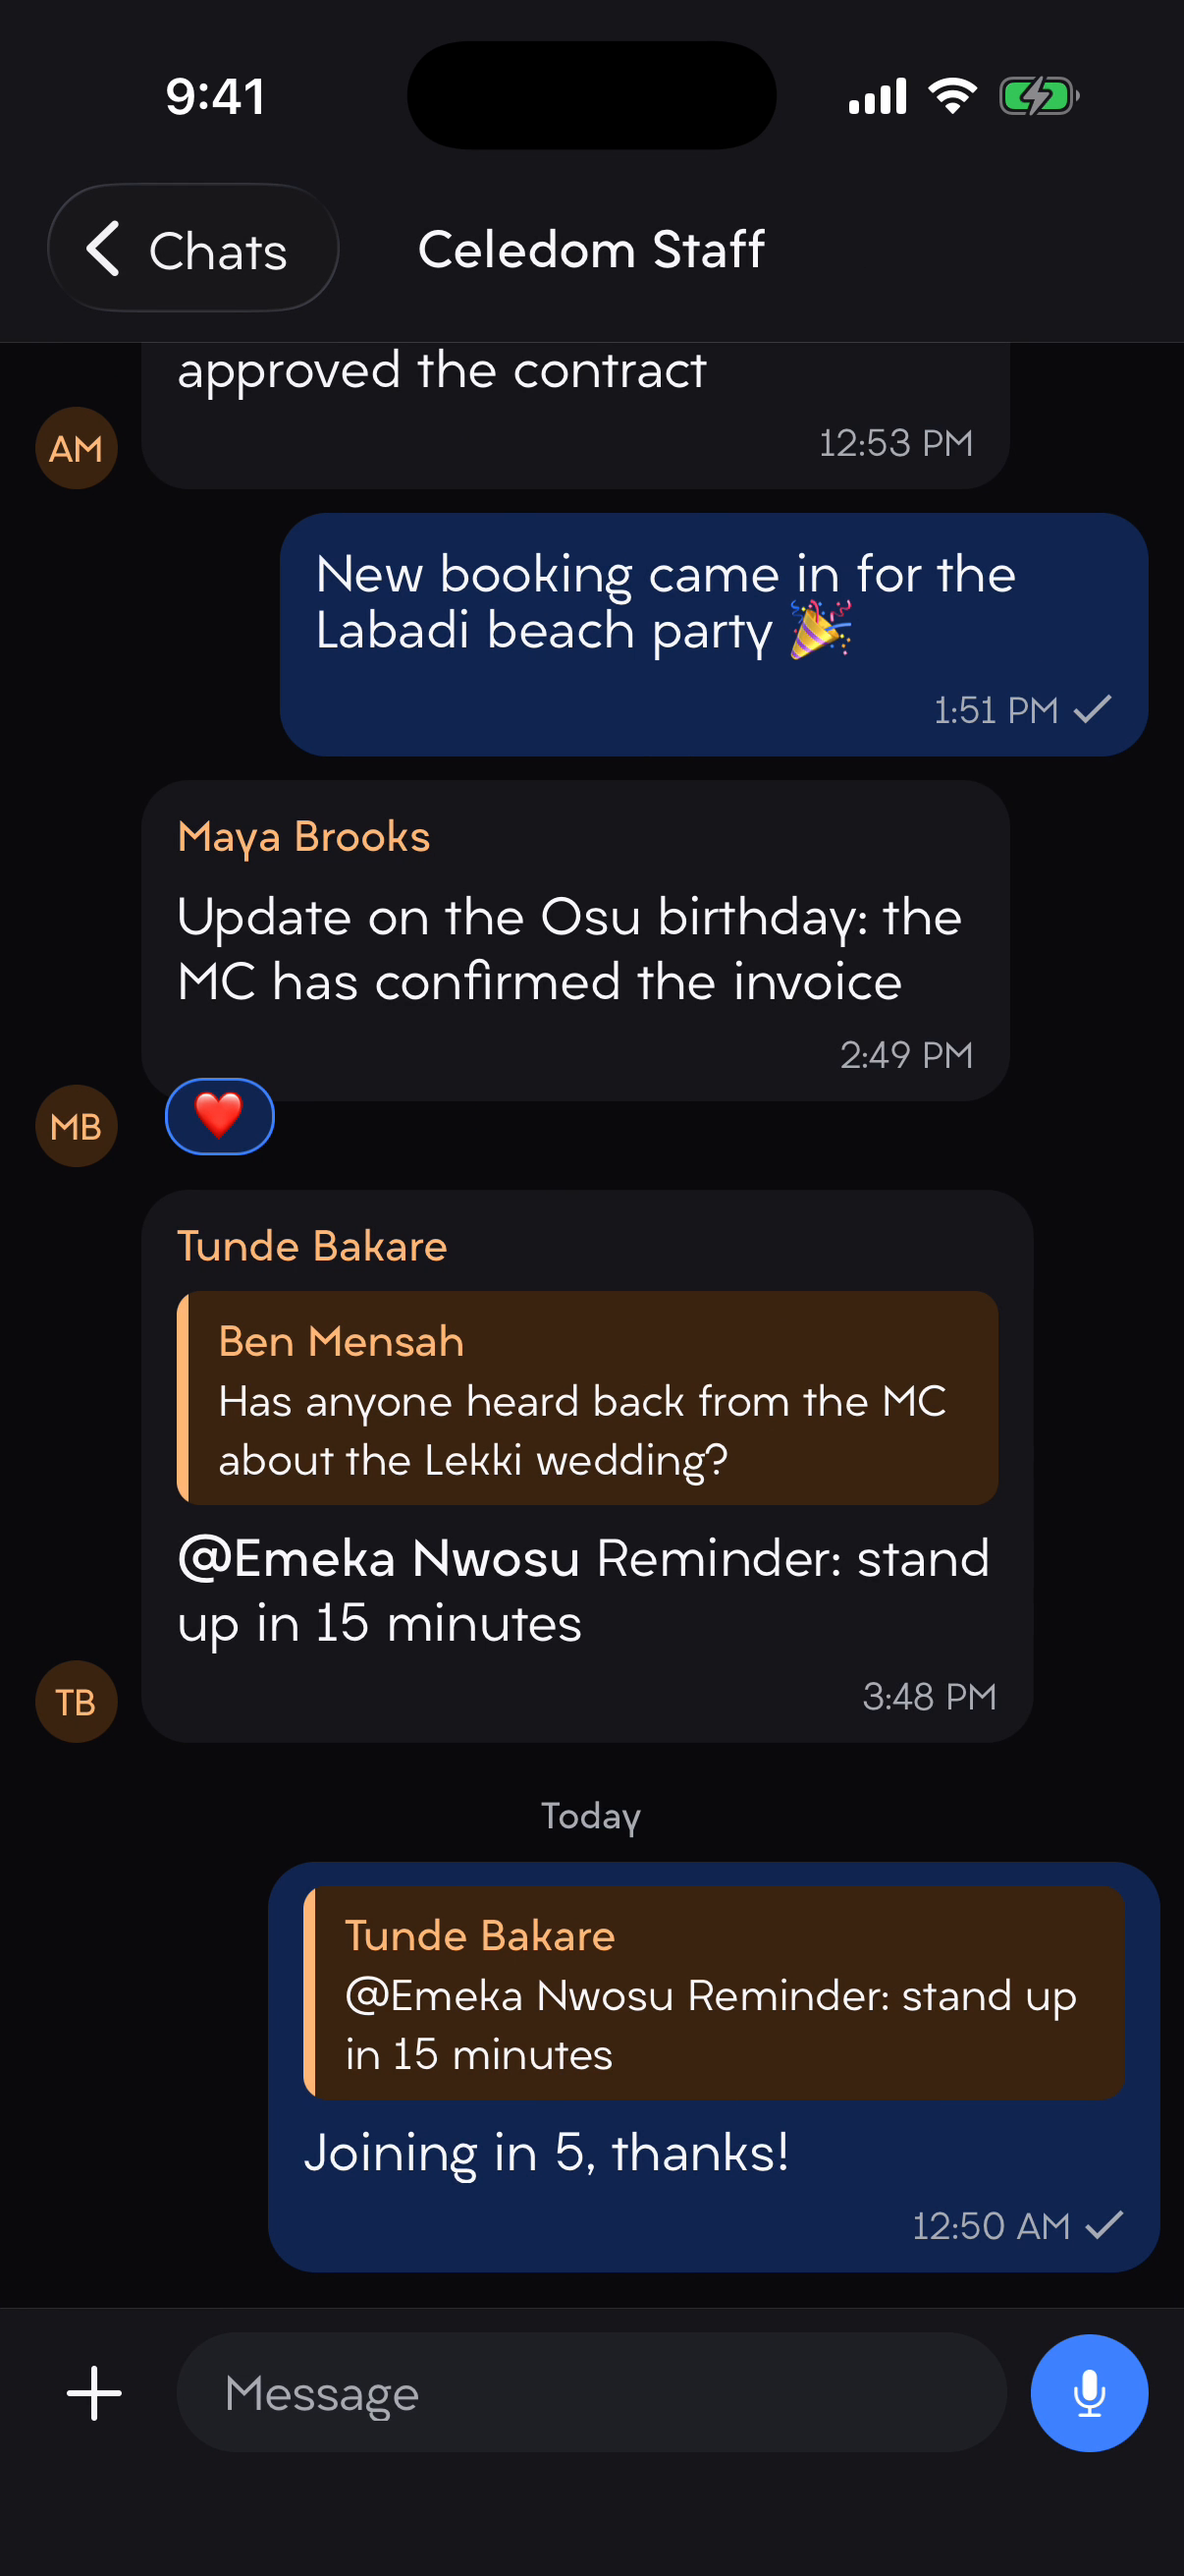
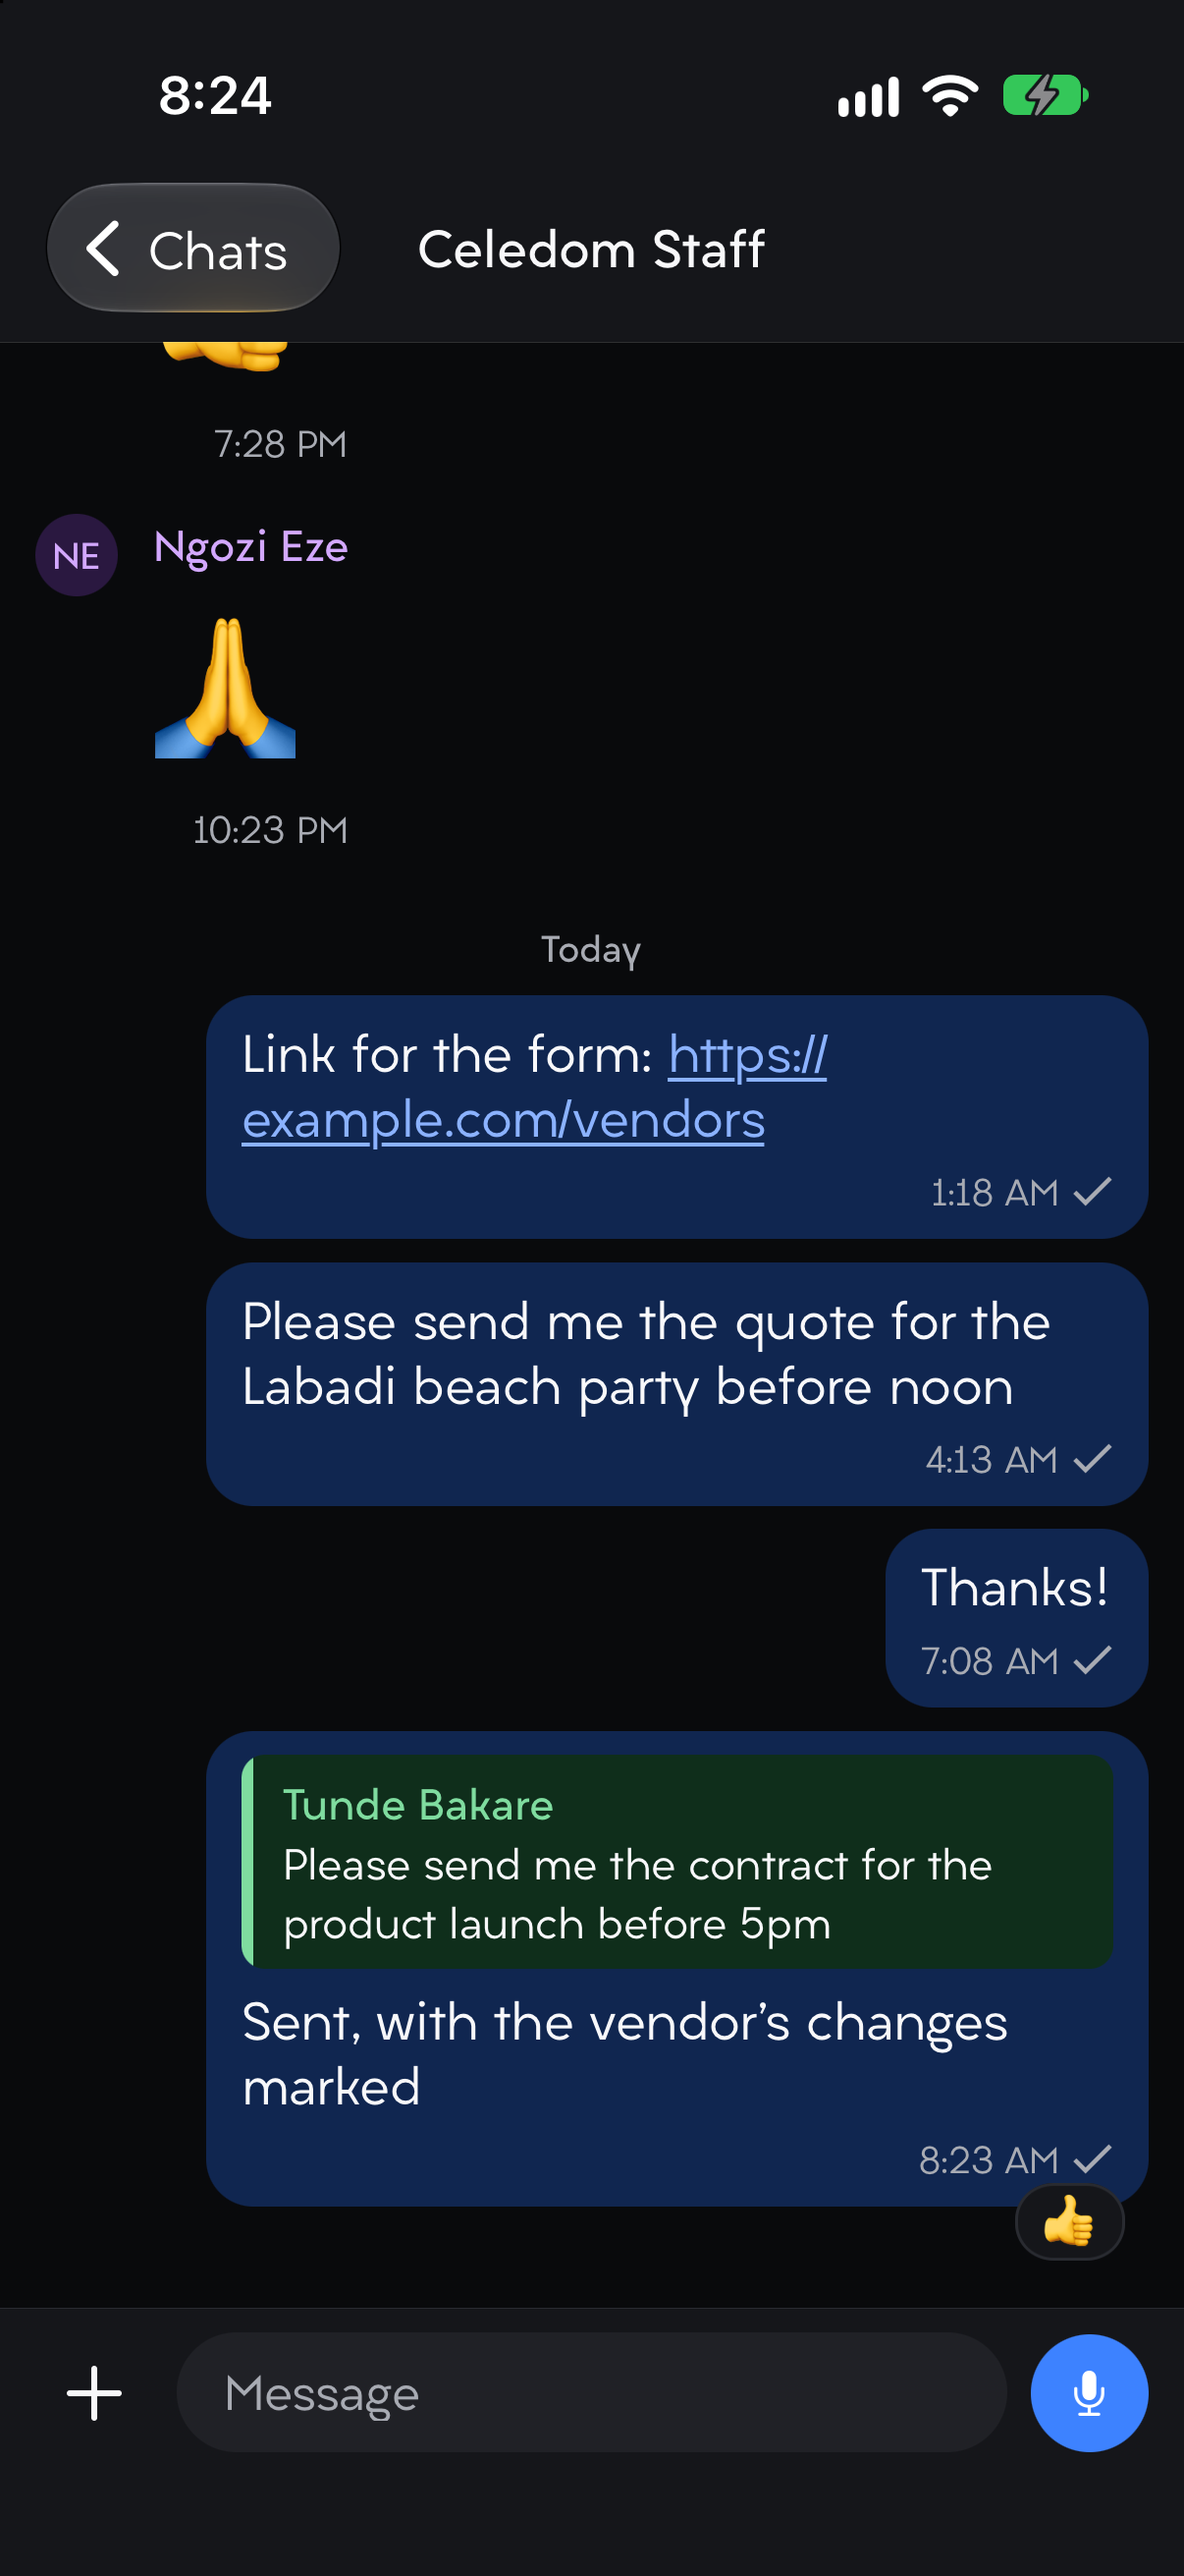
Project pages show the work: the assistant answering in a group and in its own chat, a client's request in Celebrant, and GroqDictate on iPhone keeping a long recording in parts

diff --git a/docs/DESIGN.md b/docs/DESIGN.md
@@ -129,11 +129,13 @@ The order for each feature stays as the charter says: scenarios written first, b
 
 ### Project pages: where they stand (2026-11-03)
 
-Each page is a short story: a sentence per screen. On wide screens a phone screen sits beside its sentence, alternating sides; Mac windows and the GroqDictate demo keep the sentence above. On phones it's sentence, then screen. Iterate on the tailnet dev server; deploy at agreed milestones.
+Each page is a short story: a sentence per screen. On wide screens a phone screen or menu bar panel sits beside its sentence, alternating sides; Mac windows and the GroqDictate demo keep the sentence above. On phones it's sentence, then screen. Iterate on the tailnet dev server; deploy at agreed milestones.
 
-Next, in order:
-1. **Staff chat:** its screens are frames from the demo video, so they're soft, and the assistant (its headline) isn't shown. The Celedom demo-video work has the seeded demo server (`demo-video-server`, port 8890) and the steps to rebuild the simulator app (`~/.cache/devbox/tmp/demo-video/HANDOFF.md`, `~/work/clients/celedom/demo-video/PLAN.md`); its assistant scenes were never recorded either, so one session can do both.
-2. **DataMeter on phones:** the whole window is too small to read at phone width. Its menu bar view is the phone-sized one; capture it on made-up data (the swap-and-restore steps above) when the Mac is free, or render it offscreen from the app's code.
-3. **Celebrant and Vendors:** one request seen from both sides (sent in Celebrant, received and accepted in Vendors), from the same simulator builds and review accounts.
-4. **GroqDictate on iPhone:** its recordings list, from a simulator build of the iOS app.
+How each page's screens were made, so they can be made again:
 
+- **Staff chat:** the assistant answering an @mention in a group, answering in its own chat, and a reply with a reaction. Simulator (iPhone 17, iOS 27) running a copy of the chat app's Release build `6c89c94a` (P-arrive) with its server address patched to a server of our own: worktree `~/work/clients/celedom/worktrees/celedom-internal-chat/website-shots` (detached at `6c89c94a`), user unit `website-shots-server` on `100.101.24.49:8892`, `pnpm db:reset` then `pnpm test-history --messages 3000` (its last step, spreading send times, hits SQLITE_BUSY while the server runs; run that SQL with the server stopped). Signed in as Ada; the assistant was added to Ops Lagos. Its answers are real model output from the dev AI account (a few cents). Jira isn't connected on a local server, so ticket requests fail there.
+- **Celebrant and Vendors:** Explore, then Celebrant's request form to Adaeze Events & Decor (filled, not sent), then the existing Vendors chat. The request can't be sent: the review vendor has no service priced in USD or GHS (`offersService` in the backend's `service-requests.ts`), and giving it one means changing the App Store review account. Creating an event along the way left "Ama's 30th birthday" (21 Nov, East Legon) in client.test1's events on staging; the app and backend have no way to delete an event.
+- **DataMeter:** both screens drawn offscreen at 2x from DataMeter's own `DashboardView` and `MenuBarRootView`, by a small render tool compiled against the repo (`UsageViewModel` with a stub sampler, a fixed "Wi‑Fi" network and a temporary SQLite file holding a made-up day). Nothing on the Mac's screen or its real database is touched. The page rounds the square captures at macOS 26's radii.
+- **GroqDictate on iPhone:** a Debug simulator build of `GroqDictateIOS`, with made-up recordings written straight into the app's `Application Support/GroqDictate/Sessions` (one `session.json` per recording plus silent `segment-000N.m4a` files): a 21-minute one in five parts, and one whose third part failed with "Check connection".
+
+Still open: the vendor's side of the same request (needs the decision above), and the chat list (the seeded server's list shows test-fixture chats like "Inline cards").
